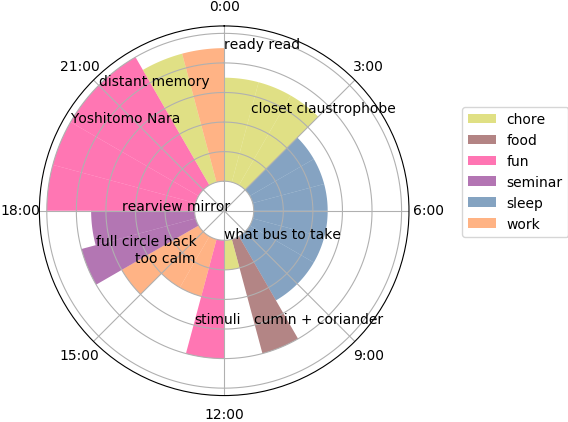
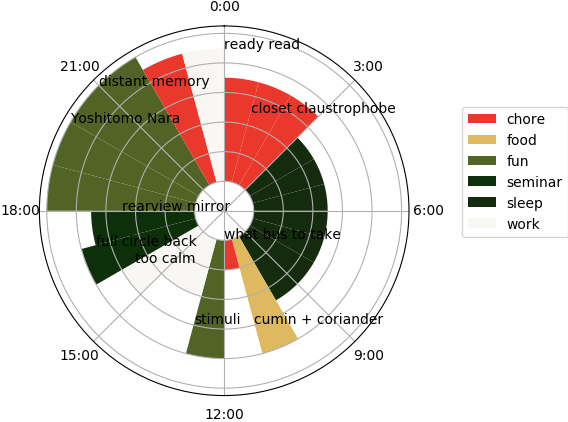
Update color palette with random color from colormind.io

Changed region(s): [[0.0599, 0.0924, 0.5986, 0.8626], [0.8081, 0.3697, 0.8979, 0.5545], [0.8081, 0.2464, 0.8979, 0.3389]]

diff --git a/chronodex.py b/chronodex.py
@@ -1,8 +1,10 @@
+import sys
 import matplotlib.patches as mpatches
 import matplotlib.pyplot as plt
 import numpy as np
+import subprocess
 
-date = '20191113' 
+date = str(sys.argv[1]) 
 tick = []
 radii = []
 radii_mood = []
@@ -23,15 +25,45 @@ with open(str('./data/'+date+'.txt'), "r") as filestream:
         else: 
             radii_mood.append(radii_mood[-1])
         notes.append(currentline[3].strip())
-# prepare palette that shows up in legend based on unique agenda items
-palette = [[0.8, 0.8, 0.2, 0.6],
-          [0.5, 0.2, 0.2, 0.6],
-          [1, 0.1, 0.5, 0.6],
-          [0.5, 0.1, 0.5, 0.6],
-          [0.2, 0.4, 0.6, 0.6],
-          [1, 0.5, 0.2, 0.6],
-          [0.2, 0.8, 0.2, 0.6], 
-          [0.1, 0.8, 1, 0.6]]
+# prepare palette that shows up in legend based on unique agenda items #nippon color; morandi#curl 'http://colormind.io/list/'
+transparency = 0.9
+MyOut = subprocess.Popen(['curl', 'http://colormind.io/api/', '--data-binary', '{"model":"default"}'], 
+            stdout=subprocess.PIPE, 
+            stderr=subprocess.STDOUT)
+stdout,stderr = MyOut.communicate()
+
+print(stdout)
+temp = (stdout.decode('ASCII')).split('result":',1)[1] 
+temp = temp.rstrip('}\n')
+text = temp.split('],[')
+try1 = [list(map(int,((text[i].strip("[]")).split(',')))) for i in range(len(text))]
+MyOut = subprocess.Popen(['curl', 'http://colormind.io/api/', '--data-binary', '{"model":"ui"}'], 
+            stdout=subprocess.PIPE, 
+            stderr=subprocess.STDOUT)
+stdout,stderr = MyOut.communicate()
+
+print(stdout)
+temp = (stdout.decode('ASCII')).split('result":',1)[1] 
+temp = temp.rstrip('}\n')
+text = temp.split('],[')
+try2 = [list(map(int,((text[i].strip("[]")).split(',')))) for i in range(len(text))]
+palette_rgb = try1 + try2
+transparency = 1
+palette = []
+for color in palette_rgb:
+    rgb = [c/255 for c in color]
+    rgb.append( transparency)
+    palette = palette + [rgb]
+
+
+# palette = [[0.8784,0.2353,0.5412, transparency],
+#             [0.9686,0.3608,0.1843, transparency],
+#           [0.3922,0.2118,0.2353, transparency],
+#           [0.9843,0.8863,0.3176, transparency],
+#           [0.5686,0.6784,0.4392, transparency],
+#           [0.0667,0.1961,0.5216, transparency],
+#           [0,0.5373,0.6549, transparency],
+#           [0.6941,0.5882,0.5765, transparency]]
 
 legend_elements = []
 agenda = list(set(radii))
